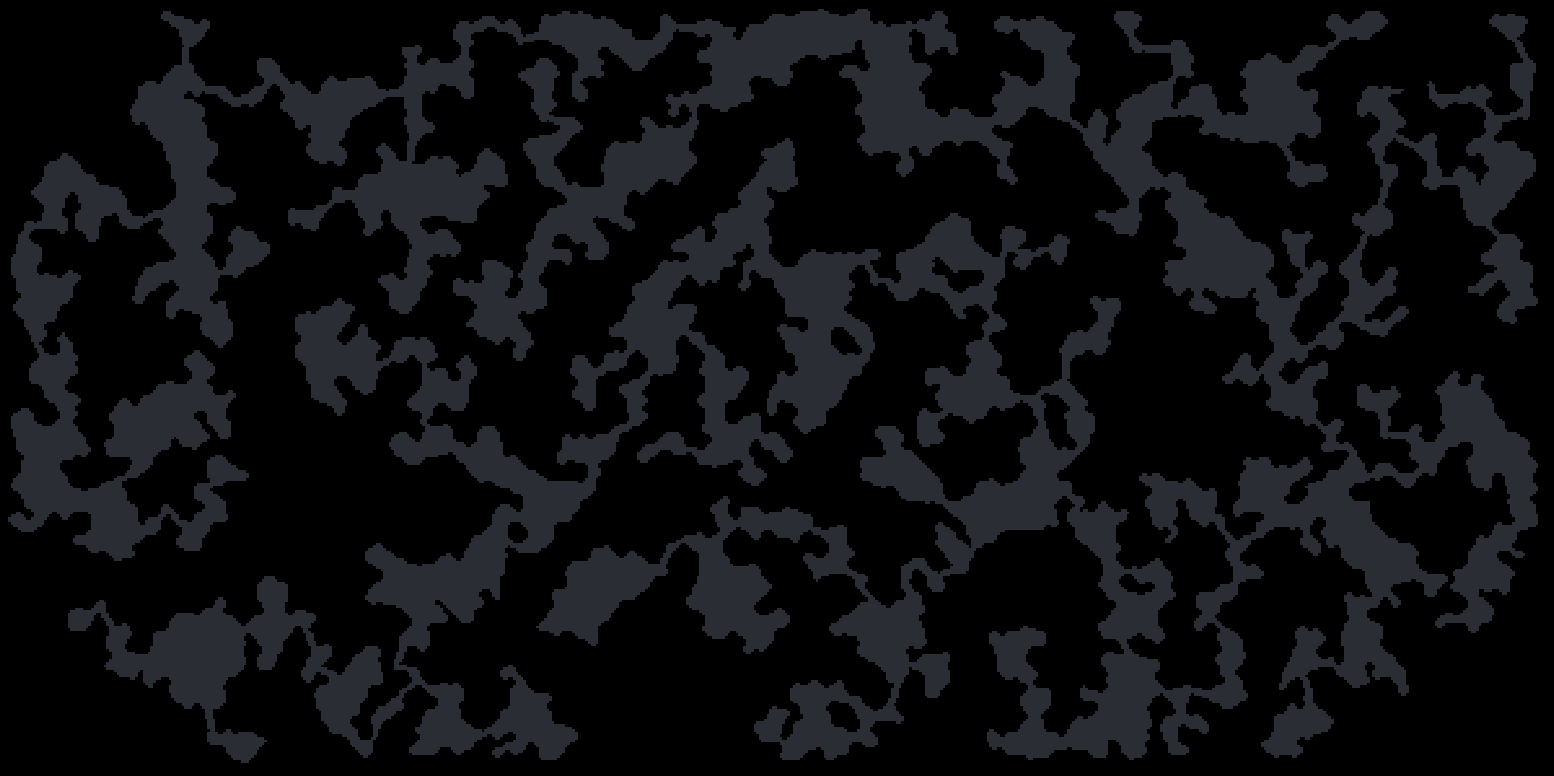
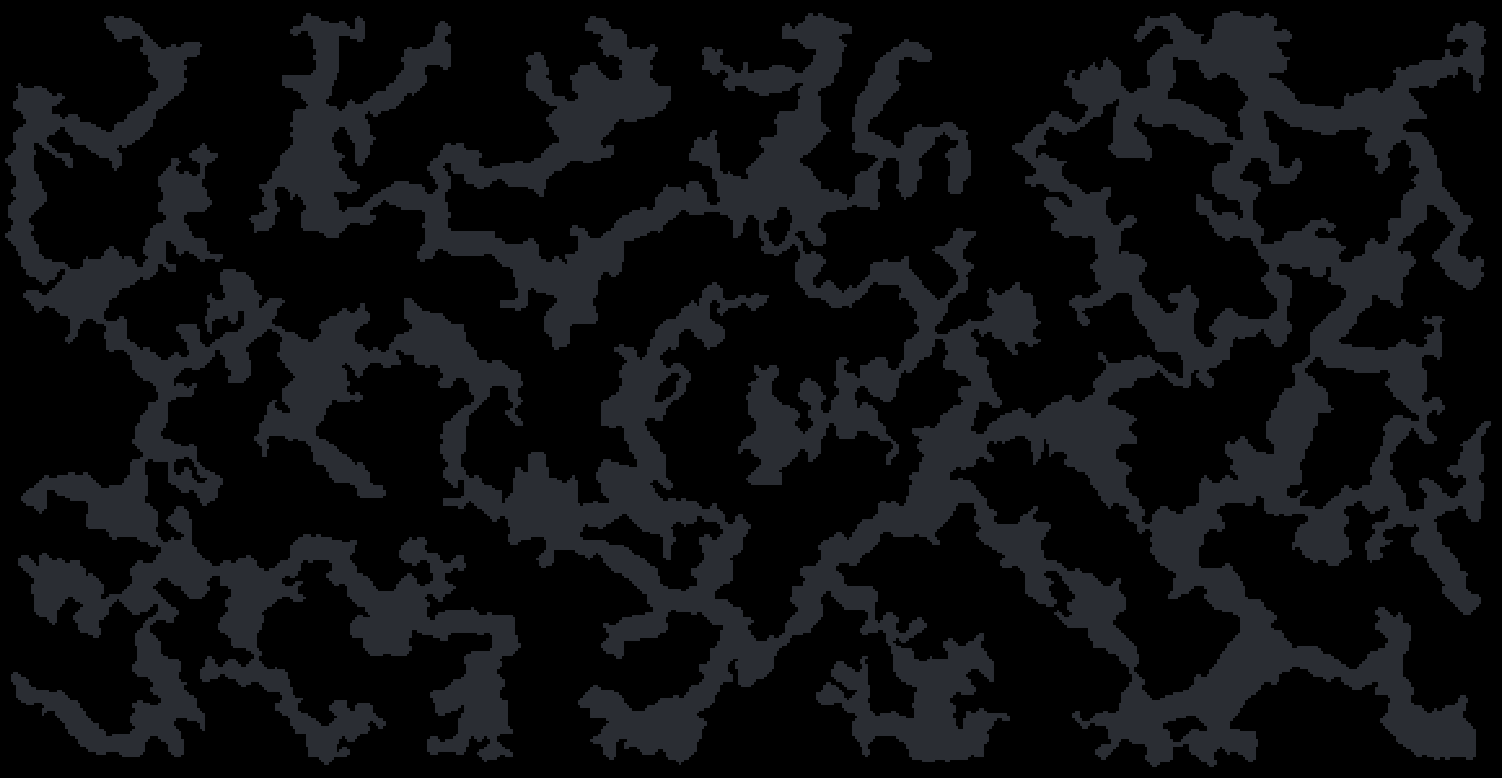
Refining room connections

diff --git a/CaveGeneration/Assets/Scripts/MapGenerator.cs b/CaveGeneration/Assets/Scripts/MapGenerator.cs
@@ -49,11 +49,15 @@ public class MapGenerator : MonoBehaviour
 
     bool[,] map;
 
+    System.Random prng;
+
     MapDisplay mapDisplay;
 
 
     public void GenerateMap()
     {
+        prng = new System.Random(seed);
+
         GenerateBaseMap();
 
         for (int i = 0; i < smoothIterations; i++)
@@ -63,6 +67,8 @@ public class MapGenerator : MonoBehaviour
 
         for (int i = 0; i < smoothIterations; i++)
             SmoothMap();
+
+        RefineRegions();
 
         DisplayMap();        
     }
@@ -77,7 +83,8 @@ public class MapGenerator : MonoBehaviour
 
         map = new bool[mapWidth, mapHeight];
 
-        System.Random prng = new System.Random(seed);
+        if (prng == null)
+            prng = new System.Random(seed);
 
         for (int y = 0; y < mapHeight; y++)
         {
@@ -331,6 +338,9 @@ public class MapGenerator : MonoBehaviour
             {
                 if (x * x + y * y <= r * r)
                 {
+                    if (x * x + y * y > 1 && prng.Next(0, 10) > 3)
+                        continue;
+
                     int drawX = x + point.x;
                     int drawY = y + point.y;
                     if (IsInMap(drawX, drawY))
